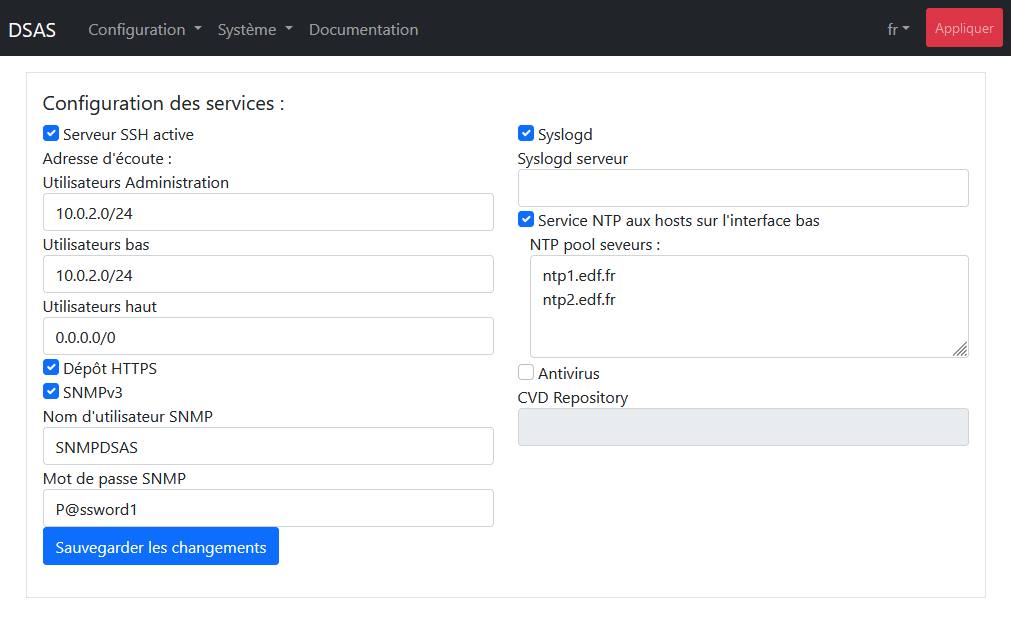
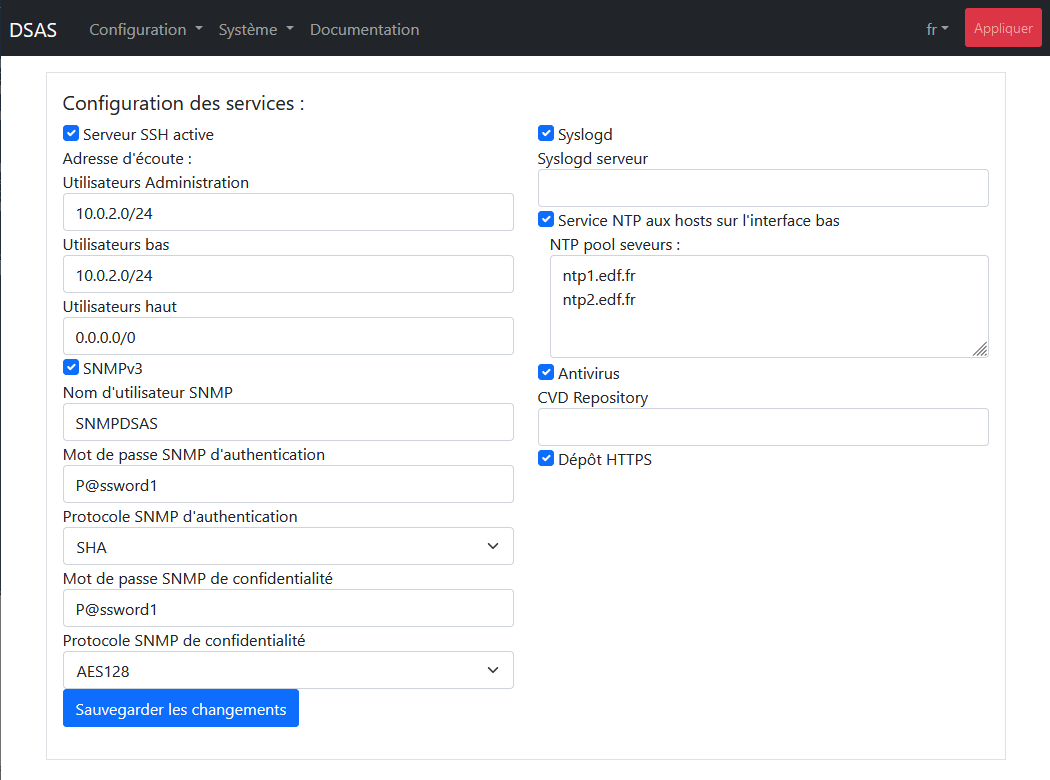
feat: Add possibility to fully configure SNMPv3

diff --git a/append/usr/local/share/www/service.html b/append/usr/local/share/www/service.html
@@ -46,10 +46,6 @@
             <div class="invalid-feedback" id="feed_user_haut"></div>
           </div>
           <div class="col-12">
-            <input class="form-check-input" type="checkbox" value="" id="repo" onchange="dsas_change_service('repo');">
-            <label class="form-check-label" for="syslog" data-i18n>HTTPS repository</label>
-          </div>
-          <div class="col-12">
             <input class="form-check-input" type="checkbox" value="" id="snmp" onchange="dsas_change_service('snmp');">
             <label class="form-check-label" for="snmp" data-i18n>SNMPv3</label>
           </div>
@@ -59,9 +55,37 @@
             <div class="invalid-feedback" id="feed_snmp_user"></div>
           </div>
           <div class="col-12">
-            <label for="snmp_pass" data-i18n>SNMP Password</label>
+            <label for="snmp_pass" data-i18n>SNMP Authentification Password</label>
             <input type="text" id="snmp_pass" value="" class="form-control">
             <div class="invalid-feedback" id="feed_snmp_pass"></div>
+          </div>
+          <div class="col-12">
+            <label for="snmp_encrypt" data-i18n>SNMP Authentification Protocol</label>
+            <select class="form-select" name="snmp_encrypt" id="snmp_encrypt">
+              <option id="snmp_md5" value="MD5">MD5</option>
+              <option id="snmp_sha" value="SHA">SHA</option>
+              <option id="snmp_sha256" value="SHA256">SHA256</option>
+              <option id="snmp_sha512" value="SHA512">SHA512</option>
+            </select>
+          </div>
+          <div class="col-12">
+            <label for="snmp_passpriv" data-i18n>SNMP Privacy Password</label>
+            <input type="text" id="snmp_passpriv" value="" class="form-control">
+            <div class="invalid-feedback" id="feed_snmp_passpriv"></div>
+          </div>
+          <div class="col-12">
+            <label for="snmp_privencrypt" data-i18n>SNMP Privacy Protocol</label>
+            <select class="form-select" name="snmp_privencrypt" id="snmp_privencrypt">
+              <option id="snmp_des" value="DES">DES</option>
+              <option id="snmp_aes" value="AES">AES128</option>
+              <!-- 
+              These additional options require that net-snmp is compiled with --enable-blumenthal-aes
+              <option id="snmp_aes192" value="AES192">AES192</option>
+              <option id="snmp_aes192c" value="AES192C">AES192 Cisco</option>
+              <option id="snmp_aes256" value="AES256">AES256</option>
+              <option id="snmp_aes256c" value="AES256C">AES256 Cisco</option>
+              -->
+            </select>
           </div>
         </div>
       </div>
@@ -93,6 +117,10 @@
             <label for="antivirus_uri" data-i18n>CVD Repository</label>
             <input type="text" id="antivirus_uri" value="" class="form-control">
             <div class="invalid-feedback" id="feed_antivirus_uri"></div>
+          </div>
+          <div class="col-12">
+            <input class="form-check-input" type="checkbox" value="" id="repo" onchange="dsas_change_service('repo');">
+            <label class="form-check-label" for="syslog" data-i18n>HTTPS repository</label>
           </div>
         </div>
       </div>

diff --git a/append/usr/local/share/www/dsas.js b/append/usr/local/share/www/dsas.js
@@ -1072,6 +1072,12 @@ function dsas_display_service(what = "all"){
        document.getElementById("snmp_user").disabled = (serv.snmp.active !== "true");
        document.getElementById("snmp_pass").value = print_obj(serv.snmp.password);
        document.getElementById("snmp_pass").disabled = (serv.snmp.active !== "true");
+       document.getElementById("snmp_encrypt").value = print_obj(serv.snmp.encrypt);
+       document.getElementById("snmp_encrypt").disabled = (serv.snmp.active !== "true");
+       document.getElementById("snmp_passpriv").value = print_obj(serv.snmp.passpriv);
+       document.getElementById("snmp_passpriv").disabled = (serv.snmp.active !== "true");
+       document.getElementById("snmp_privencrypt").value = print_obj(serv.snmp.privencrypt);
+       document.getElementById("snmp_privencrypt").disabled = (serv.snmp.active !== "true");
      }
   }).catch(error => {
       fail_loggedin(error.statusText);
@@ -1113,6 +1119,31 @@ function dsas_change_service(what) {
        serv.snmp.active = (document.getElementById("snmp").checked ? "true" : "false");
        serv.snmp.username = document.getElementById("snmp_user").value;
        serv.snmp.password = document.getElementById("snmp_pass").value;
+       for (opt of document.getElementsByTagName("option")) {
+         switch (opt.id) {
+           case "snmp_md5":
+           case "snmp_sha":
+           case "snmp_sha256":
+           case "snmp_sha512":
+             if (opt.selected)
+               serv.snmp.encrypt = opt.value;
+             break;
+         }
+       }
+       serv.snmp.passpriv = document.getElementById("snmp_passpriv").value;
+       for (opt of document.getElementsByTagName("option")) {
+         switch (opt.id) {
+           case "snmp_des":
+           case "snmp_aes":
+           case "snmp_aes192":
+           case "snmp_aes192c":
+           case "snmp_aes256":
+           case "snmp_aes256c":
+             if (opt.selected)
+               serv.snmp.privencrypt = opt.value;
+             break;
+         }
+       }
 
        server = [];
        for (s of document.getElementById("ntp_pool").value.split(/((\r?\n)|(\r\n?))/)) {

diff --git a/append/usr/local/share/www/api/dsas-service.php b/append/usr/local/share/www/api/dsas-service.php
@@ -106,6 +106,7 @@ else if($_SERVER["REQUEST_METHOD"] == "POST"){
           $errors[] = ["snmp_user" => ["Username '{0}' is illegal", $snmp_username]];
         else
           $dsas->config->snmp->username = $snmp_username;
+
         $snmp_password = htmlspecialchars($data["snmp"]["password"]);
         if ($snmp_password != $data["snmp"]["password"])
           $errors[] = ["snmp_pass" => "The SNMP password is illegal"];
@@ -115,6 +116,32 @@ else if($_SERVER["REQUEST_METHOD"] == "POST"){
           $errors[] = ["snmp_pass" => "The SNMP password is insufficently complex"];
         else
           $dsas->config->snmp->password = $snmp_password;
+        $snmp_encrypt = htmlspecialchars($data["snmp"]["encrypt"]);
+        if ($snmp_encrypt !== "MD5" && $snmp_encrypt !== "SHA" 
+            && $snmp_encrypt !== "SHA256" && $snmp_encrypt !== "SHA512")
+          $errors[] = ["error" => "The SNMP authentification encryption is illegal"];
+        else
+          $dsas->config->snmp->encrypt = $snmp_encrypt;
+
+        $snmp_passpriv = htmlspecialchars($data["snmp"]["passpriv"]);
+        if ($snmp_passpriv != $data["snmp"]["passpriv"])
+          $errors[] = ["snmp_passpriv" => "The SNMP password is illegal"];
+        else if ($snmp_passpriv != str_replace("/\s+/", "", $snmp_passpriv))
+          $errors[] = ["snmp_passpriv" => "The SNMP password can not contain white spaces"];
+        else if (! complexity_test($snmp_passpriv))
+          $errors[] = ["snmp_passpriv" => "The SNMP password is insufficently complex"];
+        else
+          $dsas->config->snmp->passpriv = $snmp_passpriv;
+        $snmp_privencrypt = htmlspecialchars($data["snmp"]["privencrypt"]);
+        if ($snmp_privencrypt !== "DES" && $snmp_privencrypt !== "AES" 
+            // These additional non-standard options require that net-snmp is compiled with
+            // the --enable-blumenthal-aes 
+            // && $snmp_privencrypt !== "AES192" && $snmp_privencrypt !== "AES192C" 
+            // && $snmp_privencrypt !== "AES256" && $snmp_privencrypt !== "AES256C"
+            )
+          $errors[] = ["error" => "The SNMP privacy encryption is illegal"];
+        else
+          $dsas->config->snmp->privencrypt = $snmp_privencrypt;
 
         break;
 

diff --git a/append/usr/local/share/www/Documentation_en.md b/append/usr/local/share/www/Documentation_en.md
@@ -831,21 +831,23 @@ of the DSAS on the lower network is `10.0.2.15` for example, the repositoty will
 ### SNMP Server
 
 A SNMP server can be activated on the DSAS. This service is only available with authentification and
-encryption and so only SNMPv3 is supported. Selecting `SNMPv3` the service xith by activated. After a
-valid `SNMP Username` and `SNMP Password` must be entered. The password will be used for both the
-authentification and encryption. 
+encryption and so only SNMPv3 is supported. Selecting `SNMPv3` the service will be activated. After 
+protocols for the authentification and encryption must be selected, a valid `SNMP Username` and 
+valid `SNMP Password` must be entered for both the authentification and encryption. 
 
 All of the readonly data available from a typical SNMP server on a linux machine will be published. The
 data specific to the DSAS are available with the following OIDs 
 
 - 1.3.6.1.4.1.16845.100.100.1.0     - Status of the upper machine. `0` if the machine is available.
 - 1.3.6.1.4.1.16845.100.100.2.0     - Status of the DSAS tasks. `0` if all of the tasks are ok.
-- 1.3.6.1.4.1.16845.100.100.3.1.1.1 - Name of the task 1.
-- 1.3.6.1.4.1.16845.100.100.3.1.1.N - Name of the task N.
-- 1.3.6.1.4.1.16845.100.100.3.1.2.1 - ID of the task 1.
-- 1.3.6.1.4.1.16845.100.100.3.1.2.N - ID of the task N.
-- 1.3.6.1.4.1.16845.100.100.3.1.3.1 - Status of the task 1.
-- 1.3.6.1.4.1.16845.100.100.3.1.3.N - Status of the task N.
+- 1.3.6.1.4.1.16845.100.100.3.1.1.1 - Index of the task 1.
+- 1.3.6.1.4.1.16845.100.100.3.1.1.N - Index of the task N.
+- 1.3.6.1.4.1.16845.100.100.3.1.2.1 - Name of the task 1.
+- 1.3.6.1.4.1.16845.100.100.3.1.2.N - Name of the task N.
+- 1.3.6.1.4.1.16845.100.100.3.1.3.1 - ID of the task 1.
+- 1.3.6.1.4.1.16845.100.100.3.1.3.N - ID of the task N.
+- 1.3.6.1.4.1.16845.100.100.3.1.4.1 - Status of the task 1.
+- 1.3.6.1.4.1.16845.100.100.3.1.4.N - Status of the task N.
 
 A [MIB file with these OID is available for download](DSAS-MIB.txt).
 

diff --git a/append/usr/local/share/www/Documentation_fr.md b/append/usr/local/share/www/Documentation_fr.md
@@ -851,20 +851,22 @@ disponible sur `https://10.0.2.15`.
 
 Un serveur SNMP pourrait être activé sur le DSAS. Cette service n'est dipsonible que en SNMPv3 avec
 chiffrement et authentification. En selectionnant l'option `SNMPv3` le service sera activé. Après il
-faut avoir un `Nom d'utilisateur SNMP` et `Mot de pass SNMP` valable. Le même mot de passe sera 
-utilisé pour l'authentification et la chiffrement. 
+faut selectionner des protocoles d'authentifcation et confidentialite, avoir un 
+`Nom d'utilisateur SNMP`, des `Mot de pass SNMP` valables. 
 
 L'ensemble des données SNMP du machine bas sera publié SNMP. Les données specifique au DSAS sont
 disponible sur les OID
 
 - 1.3.6.1.4.1.16845.100.100.1.0     - Statut de la machine haute. `0` si la machine est disponible
 - 1.3.6.1.4.1.16845.100.100.2.0     - Statut des tâches du DSAS. `0` si l'ensmble des tâches sont ok.
-- 1.3.6.1.4.1.16845.100.100.3.1.1.1 - Nom de la tâche 1.
-- 1.3.6.1.4.1.16845.100.100.3.1.1.N - Nom de la tâche N.
-- 1.3.6.1.4.1.16845.100.100.3.1.2.1 - ID de la tâche 1.
-- 1.3.6.1.4.1.16845.100.100.3.1.2.N - ID de la tâche N.
-- 1.3.6.1.4.1.16845.100.100.3.1.3.1 - Statut de la tâche 1.
-- 1.3.6.1.4.1.16845.100.100.3.1.3.N - Statut de la tâche N.
+- 1.3.6.1.4.1.16845.100.100.3.1.1.1 - Indice de la tâche 1.
+- 1.3.6.1.4.1.16845.100.100.3.1.1.N - Indice de la tâche N.
+- 1.3.6.1.4.1.16845.100.100.3.1.2.1 - Nom de la tâche 1.
+- 1.3.6.1.4.1.16845.100.100.3.1.2.N - Nom de la tâche N.
+- 1.3.6.1.4.1.16845.100.100.3.1.3.1 - ID de la tâche 1.
+- 1.3.6.1.4.1.16845.100.100.3.1.4.N - ID de la tâche N.
+- 1.3.6.1.4.1.16845.100.100.3.1.4.1 - Statut de la tâche 1.
+- 1.3.6.1.4.1.16845.100.100.3.1.4.N - Statut de la tâche N.
 
 Un [fichier MIB avec ces OID est disponible pour téléchargement](DSAS-MIB.txt).
 
